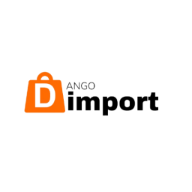
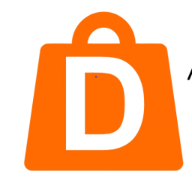
modif

diff --git a/src/components/Header.js b/src/components/Header.js
@@ -3,12 +3,11 @@ import { useLocation, useNavigate, Link } from 'react-router-dom';
 import { useQuery } from '@tanstack/react-query';
 import {
   Search, ChevronDown, Menu, X, Cpu, Shirt, Home as HomeIcon,
-  Sparkles, Smartphone, Laptop, Headphones, Dumbbell, ShoppingCart, User,
+  Sparkles, Smartphone, Laptop, Headphones, Dumbbell, User,
 } from 'lucide-react';
 import { motion, AnimatePresence } from 'framer-motion';
 import client from '../apiClient';
 import { getProductImage } from '../utils/imageUrl';
-import { useCart } from '../context/CartContext';
 import logo from '../images/logo.png';
 
 const SEARCH_FALLBACK_TERMS = ['T-shirt', 'Chaussures', 'Sac à dos', 'Smartphone', 'Parfum', 'Montre', 'Chargeur', 'Écouteurs'];
@@ -244,7 +243,6 @@ function MobileCategoryDrawer({ open, onClose }) {
 const Header = () => {
   const navigate = useNavigate();
   const location = useLocation();
-  const { cartCount } = useCart();
 
   const [searchQuery, setSearchQuery] = useState('');
   const [user, setUser] = useState(null);
@@ -253,9 +251,11 @@ const Header = () => {
   const [suggestionLoading, setSuggestionLoading] = useState(false);
   const [accountOpen, setAccountOpen] = useState(false);
   const [mobileMenuOpen, setMobileMenuOpen] = useState(false);
+  const [mobileSearchOpen, setMobileSearchOpen] = useState(false);
 
   const suggestionTimer = useRef(null);
   const accountRef = useRef(null);
+  const mobileSearchInputRef = useRef(null);
 
   useEffect(() => {
     const loadUser = () => {
@@ -326,12 +326,26 @@ const Header = () => {
     return () => window.removeEventListener('pointerdown', handleClickOutside);
   }, []);
 
-  // Ferme le tiroir mobile si on repasse en desktop
+  // Ferme le tiroir + la recherche mobile si on repasse en desktop
   useEffect(() => {
-    const onResize = () => { if (window.innerWidth >= 768) setMobileMenuOpen(false); };
+    const onResize = () => {
+      if (window.innerWidth >= 768) {
+        setMobileMenuOpen(false);
+        setMobileSearchOpen(false);
+      }
+    };
     window.addEventListener('resize', onResize);
     return () => window.removeEventListener('resize', onResize);
   }, []);
+
+  // Focus auto sur le champ dès qu'il s'ouvre sur mobile
+  useEffect(() => {
+    if (mobileSearchOpen) {
+      const t = window.setTimeout(() => mobileSearchInputRef.current?.focus(), 150);
+      return () => window.clearTimeout(t);
+    }
+    return undefined;
+  }, [mobileSearchOpen]);
 
   const handleLogout = () => {
     localStorage.removeItem('dangoToken');
@@ -345,6 +359,7 @@ const Header = () => {
     if (e) e.preventDefault();
     const q = searchQuery.trim();
     setShowSuggestions(false);
+    setMobileSearchOpen(false);
     navigate(q ? `/shopping?q=${encodeURIComponent(q)}` : '/shopping');
   };
 
@@ -353,6 +368,7 @@ const Header = () => {
     if (!normalizedTerm) return;
     setSearchQuery(normalizedTerm);
     setShowSuggestions(false);
+    setMobileSearchOpen(false);
     navigate(`/shopping?q=${encodeURIComponent(normalizedTerm)}`);
   };
 
@@ -360,10 +376,11 @@ const Header = () => {
   const userEmail = user?.userEmail || user?.email || '';
   const userSurname = user?.userSurname || user?.surname || '';
 
-  const SearchForm = ({ className = '' }) => (
+  const SearchForm = ({ className = '', inputRef }) => (
     <form onSubmit={handleSearch} className={`w-full items-center rounded-full border border-slate-200 bg-white px-3 py-2 shadow-sm flex ${className}`}>
       <Search size={16} className="text-slate-500" />
       <input
+        ref={inputRef}
         className="ml-2 min-w-0 flex-1 border-none bg-transparent text-sm text-slate-700 outline-none focus:outline-none focus:ring-0 focus:border-transparent placeholder:text-slate-400"
         placeholder="Cherchez un produit, une marque ou une catégorie"
         value={searchQuery}
@@ -416,21 +433,6 @@ const Header = () => {
         </div>
       )}
     </div>
-  );
-
-  const CartLink = ({ className = '' }) => (
-    <Link
-      to="/cart"
-      className={`relative flex h-10 w-10 shrink-0 items-center justify-center rounded-full text-slate-700 transition hover:bg-orange-50 hover:text-[#FF6B00] ${className}`}
-      aria-label="Panier"
-    >
-      <ShoppingCart size={22} strokeWidth={2} />
-      {cartCount > 0 && (
-        <span className="absolute -right-1 -top-1 flex h-[18px] min-w-[18px] items-center justify-center rounded-full bg-[#FF6B00] px-1 text-[9px] font-black leading-none text-white ring-2 ring-white">
-          {cartCount > 99 ? '99+' : cartCount}
-        </span>
-      )}
-    </Link>
   );
 
   const AccountMenu = () => (
@@ -529,14 +531,21 @@ const Header = () => {
             <Menu size={22} />
           </button>
 
-          {/* Logo */}
-          <button type="button" onClick={() => navigate('/')} className="flex items-center gap-2 shrink-0">
-            <div className="flex min-w-0 items-center">
-              <img src={logo} alt="logo dangoimport" width={80} height={50}/>
-              <h1 className="text-sm sm:text-base md:text-lg font-black text-[#111827] truncate">
-                <span style={{ color: '#FF6B00' }}>Marketplace</span>
-              </h1>
-            </div>
+          {/* Logo + nom du site */}
+          <button type="button" onClick={() => navigate('/')} className="flex items-center gap-2.5 shrink-0 min-w-0">
+            <img
+              src={logo}
+              alt="logo dangoimport"
+              className="h-9 w-9 sm:h-10 sm:w-10 shrink-0 rounded-lg object-contain"
+            />
+            <span className="flex flex-col items-start leading-none min-w-0">
+              <span className="text-base sm:text-lg md:text-xl font-black tracking-tight text-[#111827] truncate">
+                Dango<span className="text-[#FF6B00]">import</span>
+              </span>
+              <span className="hidden sm:inline text-[10px] font-bold uppercase tracking-[0.25em] text-slate-400">
+                Marketplace
+              </span>
+            </span>
           </button>
 
           {/* Recherche desktop (inline) */}
@@ -545,18 +554,42 @@ const Header = () => {
             {showSuggestions && <SuggestionsPanel />}
           </div>
 
-          {/* Panier + compte */}
+          {/* Icônes à droite */}
           <div className="ml-auto flex items-center gap-1.5 sm:gap-2 shrink-0">
-            <CartLink />
+            {/* Icône recherche mobile */}
+            <button
+              type="button"
+              onClick={() => setMobileSearchOpen((v) => !v)}
+              className={`md:hidden flex h-10 w-10 items-center justify-center rounded-full transition ${
+                mobileSearchOpen ? 'bg-[#FFF1E5] text-[#FF6B00]' : 'text-slate-700 hover:bg-slate-100'
+              }`}
+              aria-label="Rechercher"
+              aria-expanded={mobileSearchOpen}
+            >
+              {mobileSearchOpen ? <X size={20} /> : <Search size={20} />}
+            </button>
+
             <AccountMenu />
           </div>
         </div>
 
-        {/* Recherche mobile (sa propre ligne) */}
-        <div className="relative md:hidden pb-2">
-          <SearchForm />
-          {showSuggestions && <SuggestionsPanel />}
-        </div>
+        {/* Recherche mobile (repliée par défaut, ouverte au clic sur l'icône) */}
+        <AnimatePresence initial={false}>
+          {mobileSearchOpen && (
+            <motion.div
+              initial={{ height: 0, opacity: 0 }}
+              animate={{ height: 'auto', opacity: 1 }}
+              exit={{ height: 0, opacity: 0 }}
+              transition={{ duration: 0.2 }}
+              className="relative md:hidden overflow-visible"
+            >
+              <div className="pb-2 pt-1">
+                <SearchForm inputRef={mobileSearchInputRef} />
+              </div>
+              {showSuggestions && <SuggestionsPanel />}
+            </motion.div>
+          )}
+        </AnimatePresence>
       </div>
 
       {/* Navigation secondaire desktop */}

diff --git a/public/index.html b/public/index.html
@@ -3,15 +3,21 @@
 
 <head>
   <meta charset="utf-8" />
+  <link rel="icon" type="image/x-icon" href="%PUBLIC_URL%/favicon.ico" />
   <link rel="apple-touch-icon" sizes="180x180" href="/apple-touch-icon.png">
   <link rel="icon" type="image/png" sizes="32x32" href="/favicon-32x32.png">
   <link rel="icon" type="image/png" sizes="16x16" href="/favicon-16x16.png">
   <link rel="manifest" href="/site.webmanifest">
+  <link
+    href="https://fonts.googleapis.com/css2?family=Plus+Jakarta+Sans:wght@400;500;600;700;800&display=swap"
+    rel="stylesheet"
+  />
+
   <meta name="viewport" content="width=device-width, initial-scale=1" />
 
   <meta name="robots" content="index, follow" />
   <meta name="description"
-    content="Dango Import est la marketplace locale de référence au Bénin et au Togo. Découvrez des milliers de produits de vendeurs béninois et togolais. Achetez malin et vendez facilement avec livraison rapide." />
+    content="Dangoimport est la marketplace locale de référence au Bénin et au Togo. Découvrez des milliers de produits de vendeurs béninois et togolais. Achetez malin et vendez facilement avec livraison rapide." />
   <meta name="keywords"
     content="marketplace bénin, marketplace cotonou, dango hub, dango,   marketplace locale bénin, acheter en ligne bénin, vendre en ligne bénin, marketplace togo, produits locaux en ligne bénin, site de vente en ligne bénin, devenir vendeur en ligne bénin, acheter vêtements en ligne cotonou, électronique pas cher bénin, marketplace pas cher bénin, plateforme de vente en ligne togo, import chine bénin, sourcing chine bénin" />
   <meta name="google-site-verification" content="gNpLYXUfA2-7_mEdlHBUeYt5Wqd-fqwXNlHsO2H2xBE" />

diff --git a/src/pages/Orders.jsx b/src/pages/Orders.jsx
@@ -172,7 +172,7 @@ const Orders = () => {
     <div className="min-h-screen bg-[#F8F9FC] dark:bg-gray-900 transition-colors duration-300">
       <Header />
       <main className="max-w-6xl mx-auto px-4 py-8" style={{
-        marginTop: "150px",
+        marginTop: "75px",
         '@media (max-width: 768px)': {
           marginTop: "0px",
         }

diff --git a/src/index.css b/src/index.css
@@ -1,5 +1,7 @@
 @import url('https://fonts.googleapis.com/css2?family=Plus+Jakarta+Sans:ital,wght@0,300;0,400;0,500;0,600;0,700;0,800;1,400&family=Inter:wght@300;400;500;600;700&display=swap');
-
+* {
+  font-family: 'Plus Jakarta Sans', sans-serif;
+}
 @tailwind base;
 @tailwind components;
 @tailwind utilities;

diff --git a/src/pages/HomeNew.jsx b/src/pages/HomeNew.jsx
@@ -67,7 +67,7 @@ function HomeNew({ cartCount: cartCountProp }) {
       <Header cartCount={cartCount} />
 
       <main style={{
-        marginTop: "120px",
+        marginTop: "75px",
         '@media (max-width: 768px)': {
           marginTop: "0px",
         }
